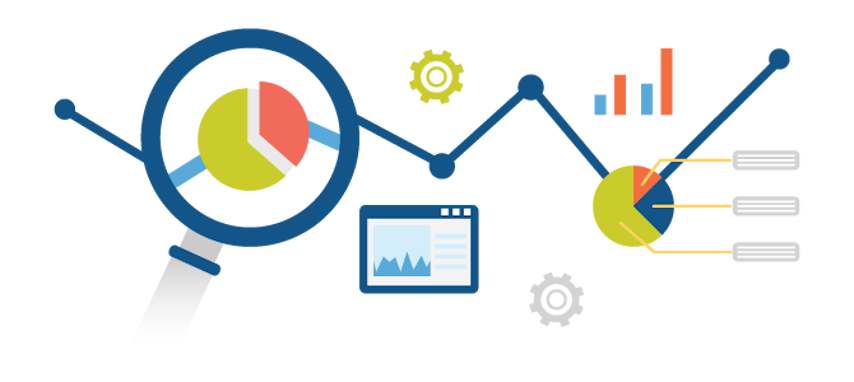
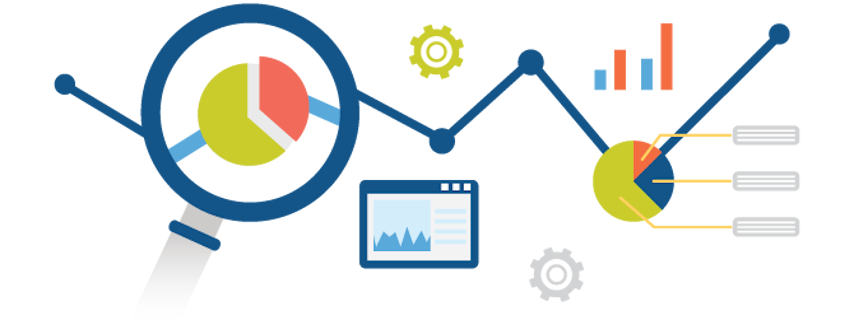
flow update

diff --git a/README.md b/README.md
@@ -1,5 +1,5 @@
 <p align="center">
-  <img width="854" height="382" src="https://github.com/jgphilpott/jgphilpott/blob/main/flow.png">
+  <img width="854" height="222" src="https://github.com/jgphilpott/jgphilpott/blob/main/flow.png">
 </p>
 
 ### Me across the web:
